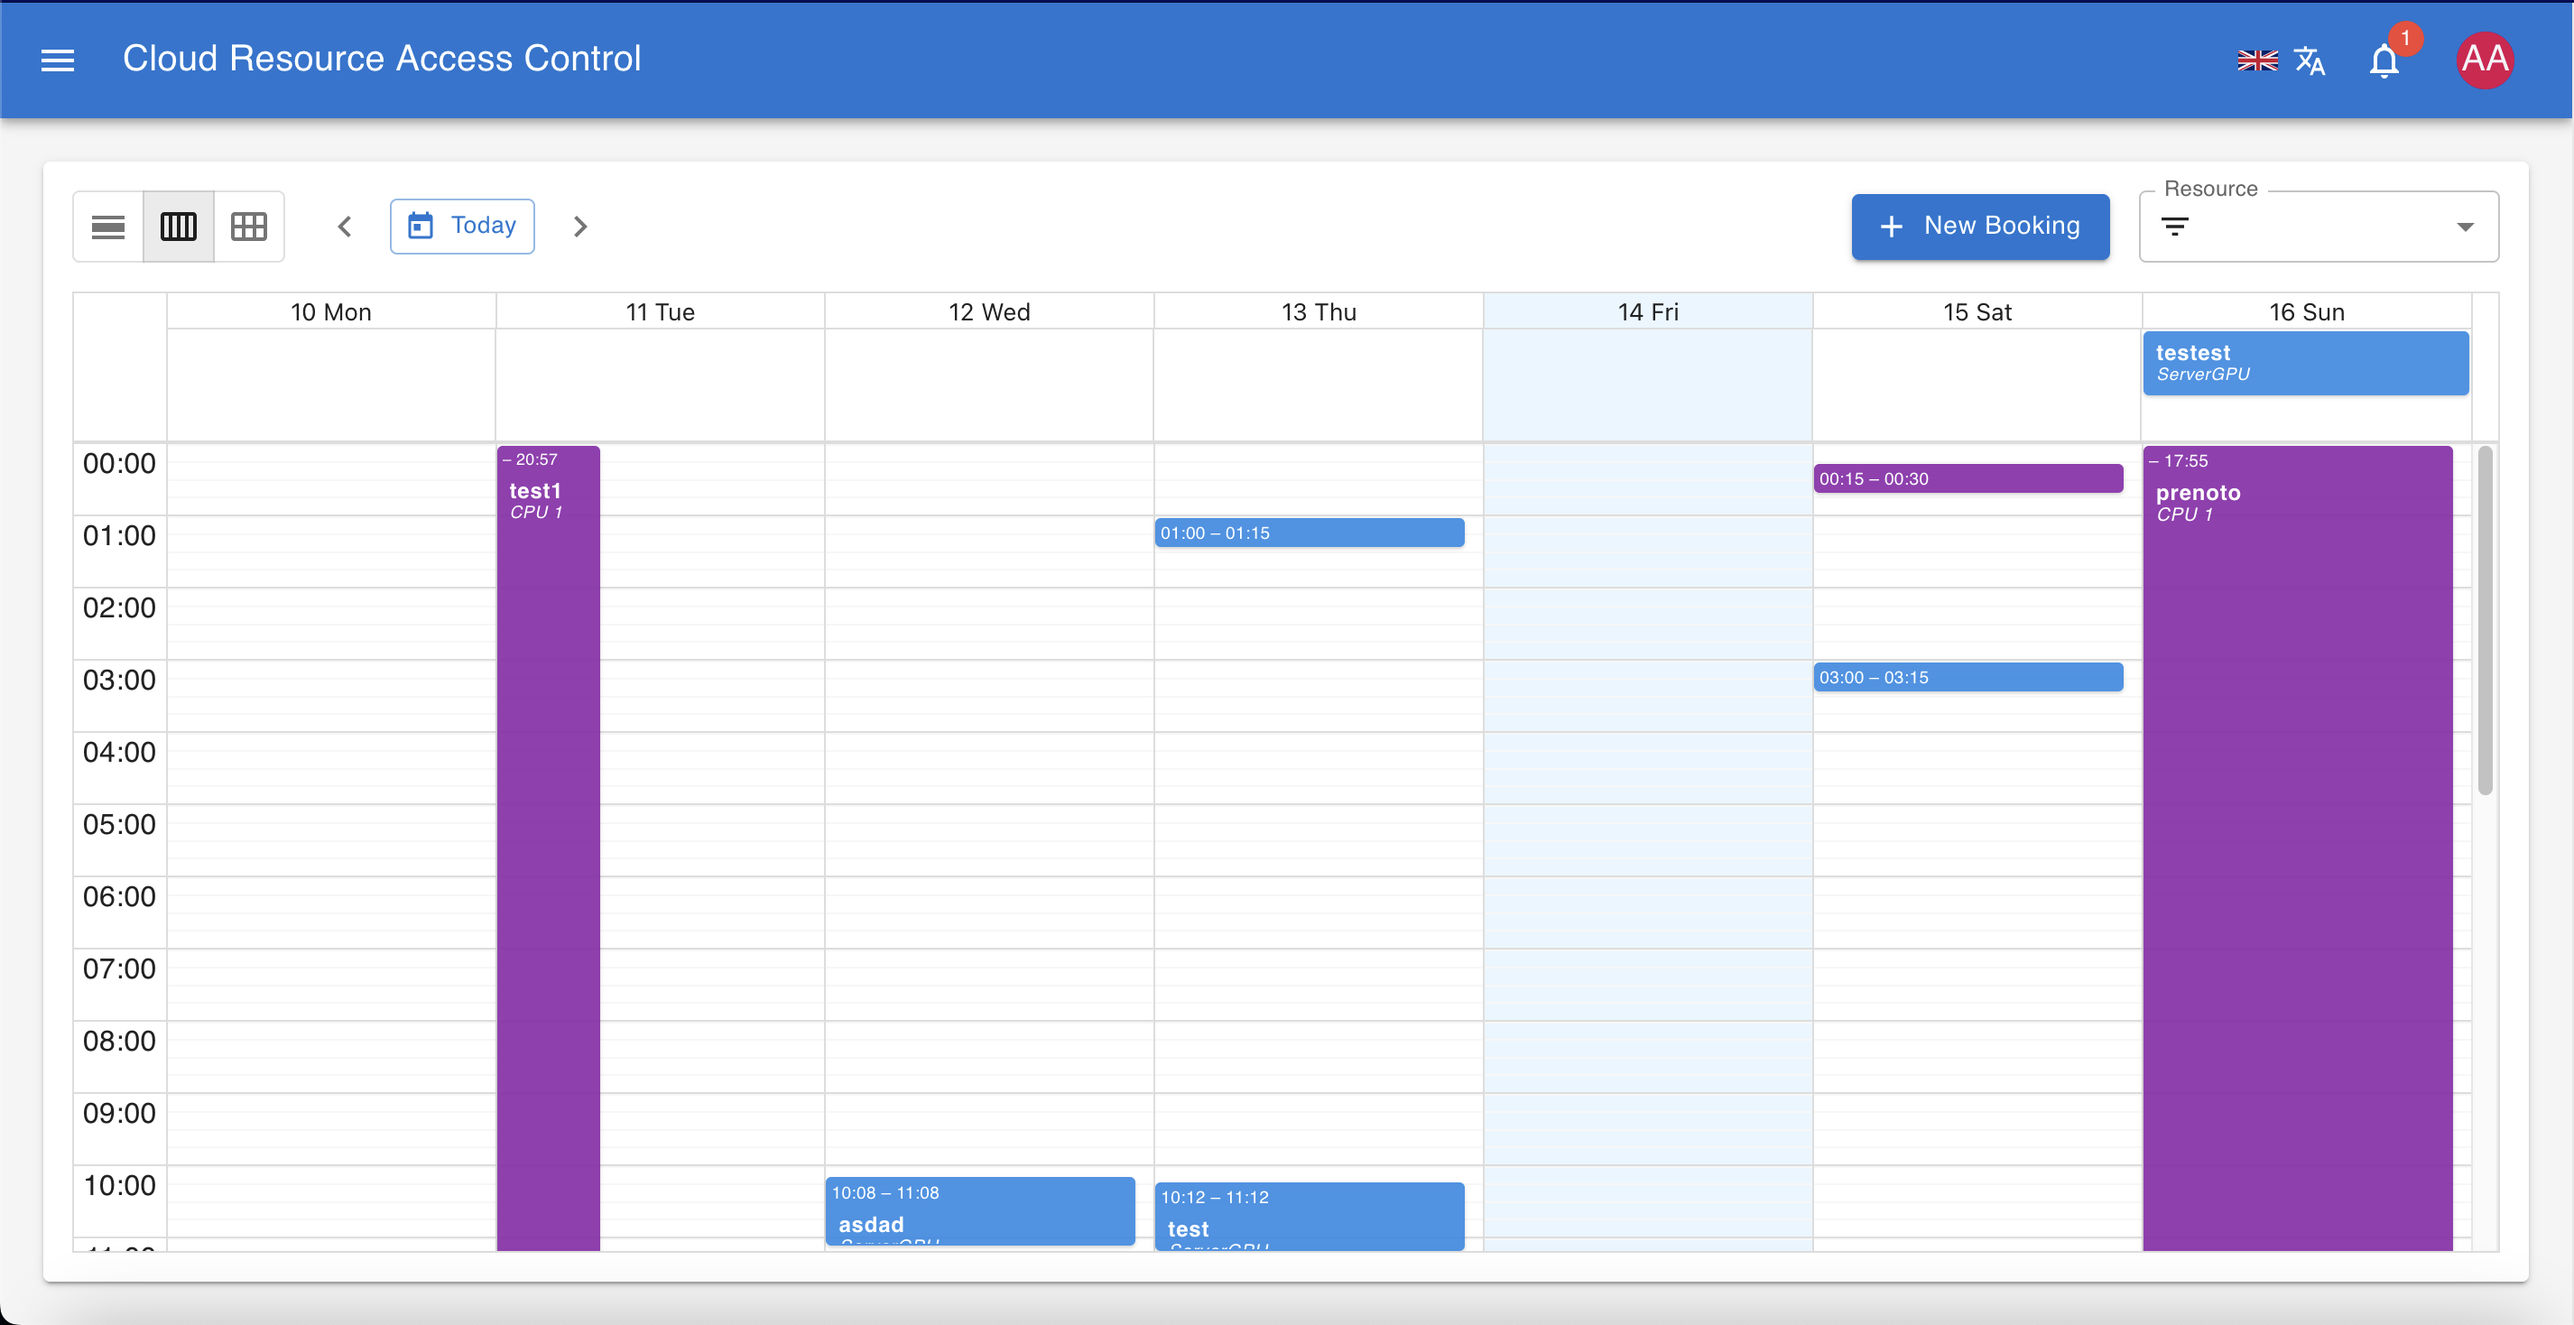
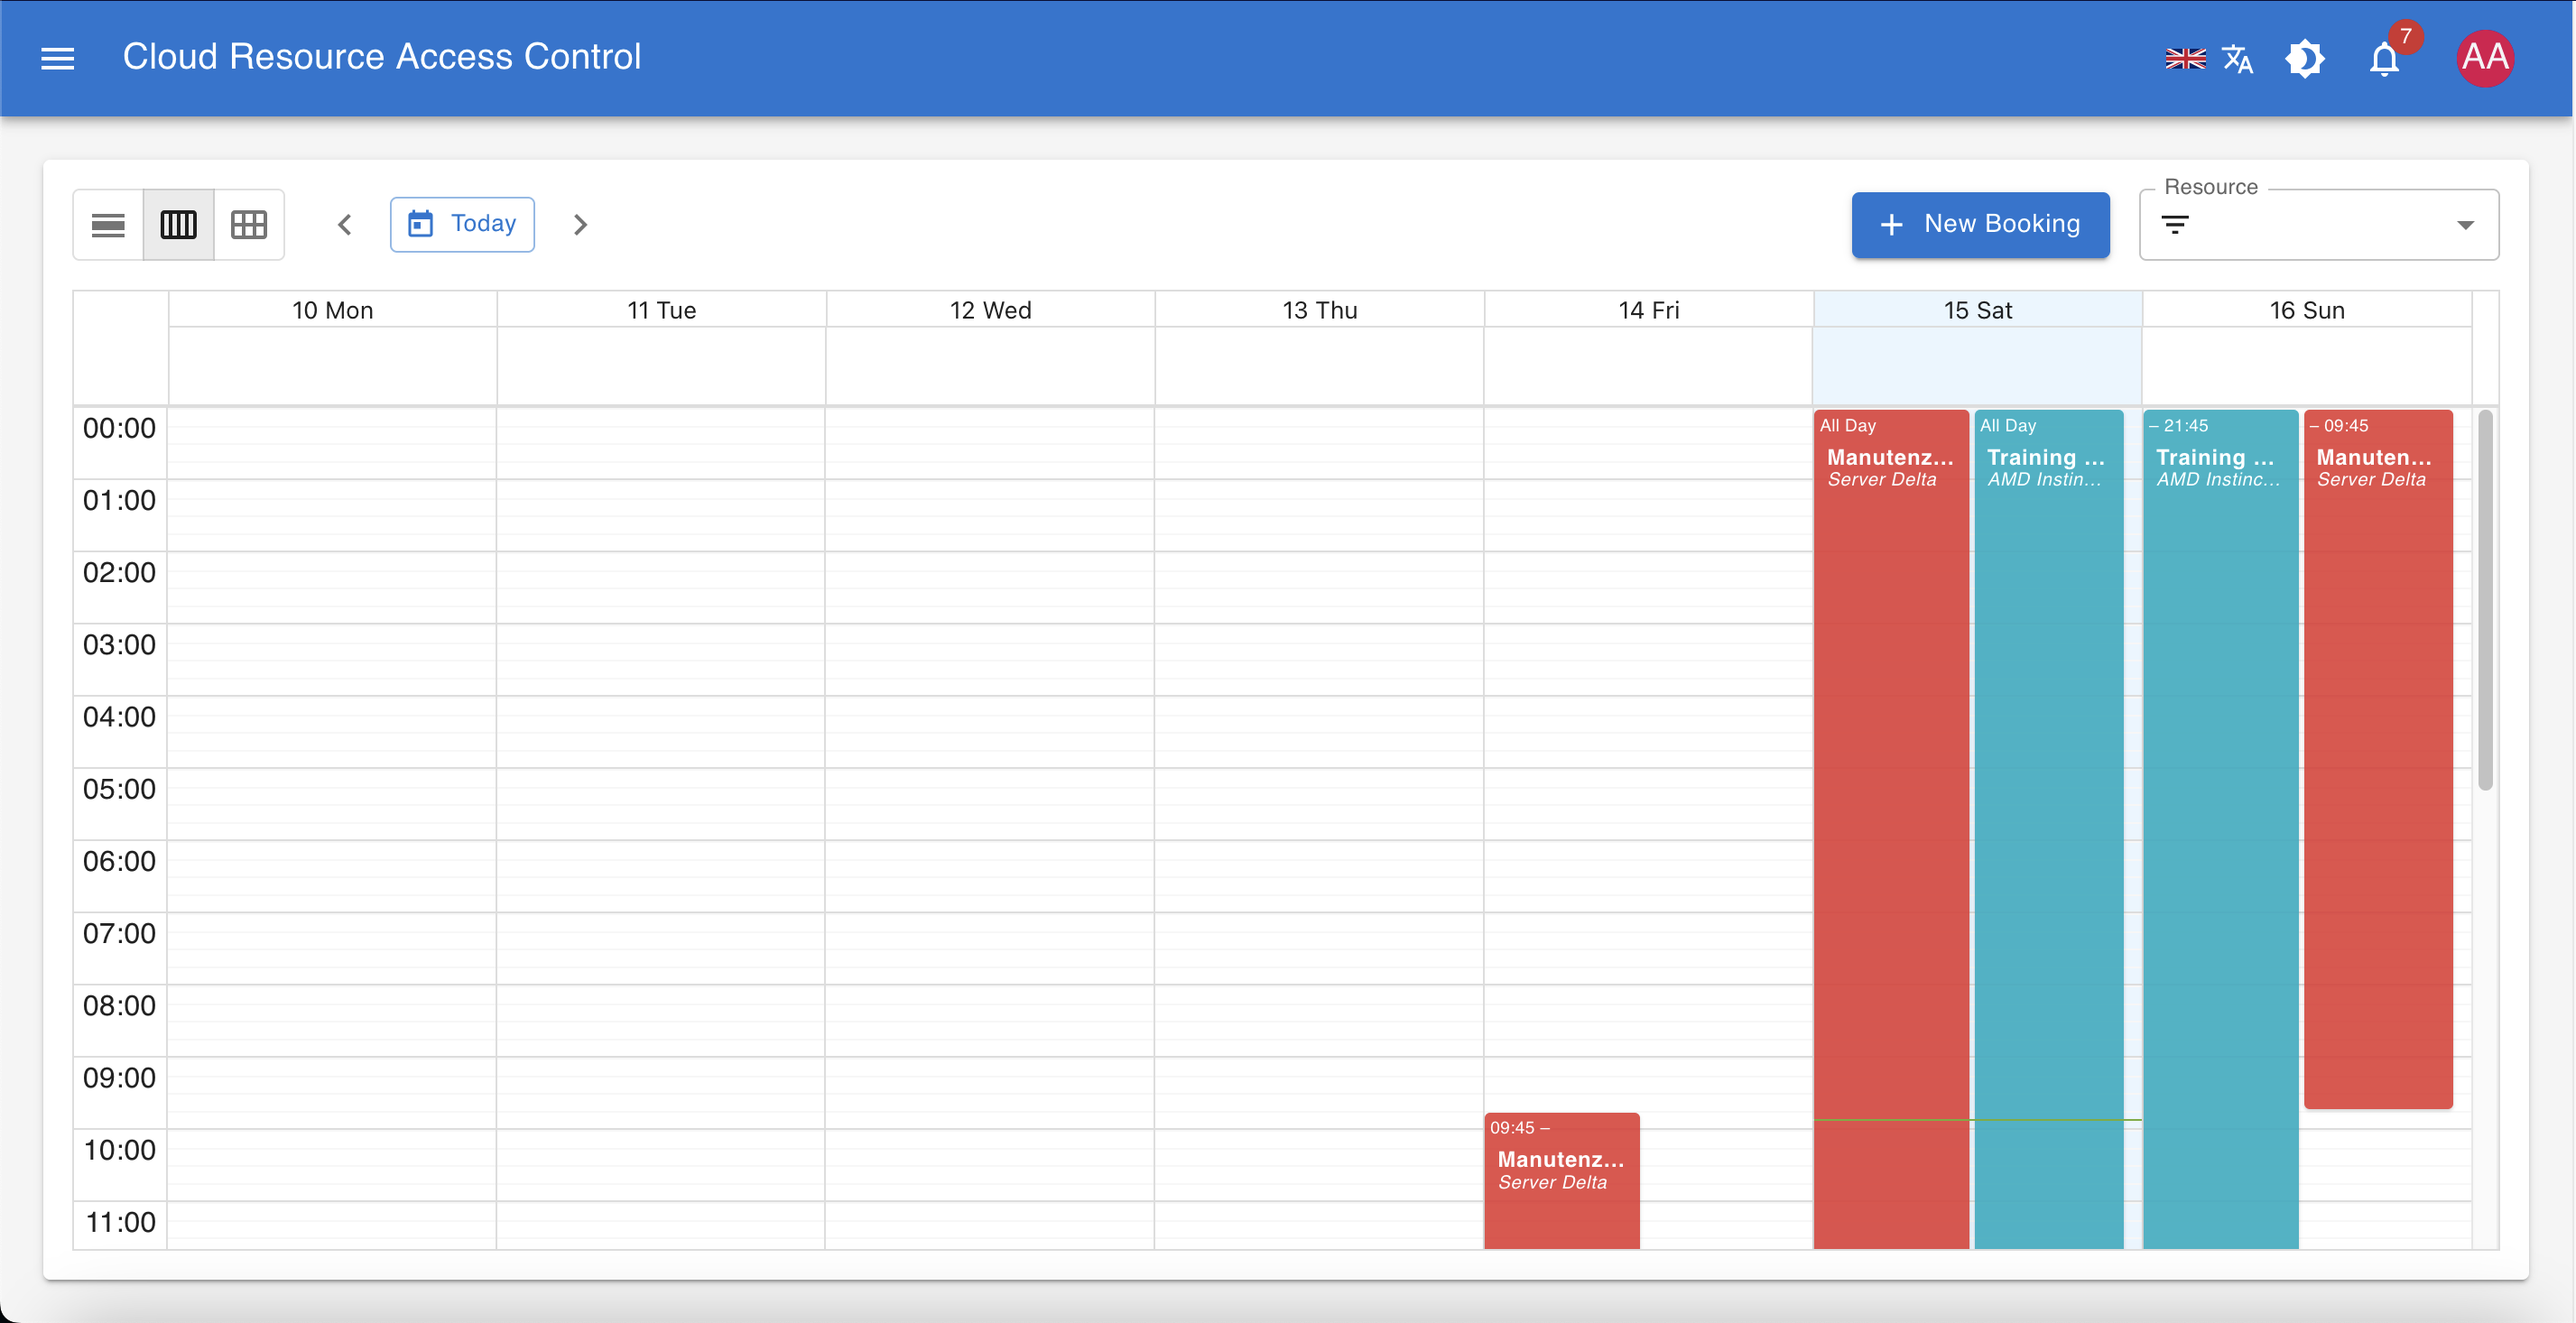
refact/fix: fix theme problems, update images and readme

diff --git a/src/styles/calendarDarkStyles.css b/src/styles/calendarDarkStyles.css
@@ -1,12 +1,12 @@
-/* Stili specifici per il tema scuro del calendario */
+/* Specific styles for calendar dark theme */
 
-/* Stile di base per il calendario in tema scuro */
+/* Base style for calendar in dark theme */
 .dark-theme .rbc-calendar {
   background-color: #1e1e1e;
   color: #f0f0f0;
 }
 
-/* Header del mese e intestazioni giorni della settimana */
+/* Month header and week day headers */
 .dark-theme .rbc-month-header,
 .dark-theme .rbc-time-header-content {
   background-color: #2c2c2c;
@@ -18,7 +18,7 @@
   border-bottom: 1px solid #444;
 }
 
-/* Celle dei giorni */
+/* Day cells */
 .dark-theme .rbc-month-view,
 .dark-theme .rbc-time-view {
   border: 1px solid #444;
@@ -55,12 +55,12 @@
   color: #90caf9;
 }
 
-/* Celle di oggi */
+/* Today's cells */
 .dark-theme .rbc-day-bg.rbc-today {
   background-color: rgba(30, 60, 90, 0.5);
 }
 
-/* Vista oraria */
+/* Time view */
 .dark-theme .rbc-time-content {
   border-top: 1px solid #444;
 }
@@ -88,11 +88,12 @@
   border-right: 1px solid #444;
 }
 
-/* Eventi */
+/* Events - removing background color override to allow color variety */
 .dark-theme .rbc-event {
-  background-color: #1976d2;
   border: none;
   box-shadow: 0 1px 5px rgba(0, 0, 0, 0.5);
+  /* Increase brightness/opacity to make colors more visible */
+  filter: brightness(1.2);
 }
 
 .dark-theme .rbc-event-content {
@@ -100,11 +101,12 @@
 }
 
 .dark-theme .rbc-event.rbc-selected {
-  background-color: #3f51b5;
+  /* Only modify shadow and selection effect, not the color */
   box-shadow: 0 0 6px #000;
+  filter: brightness(1.4);
 }
 
-/* Visibilità delle linee di sfondo nella vista temporale */
+/* Background line visibility in time view */
 .dark-theme .rbc-time-content .rbc-time-column {
   background-color: #1e1e1e;
 }
@@ -114,7 +116,7 @@
   height: 2px;
 }
 
-/* Popup "Show more" */
+/* "Show more" popup */
 .dark-theme .rbc-overlay {
   background-color: #2c2c2c;
   border: 1px solid #444;
@@ -125,6 +127,23 @@
 .dark-theme .rbc-overlay-header {
   border-bottom: 1px solid #444;
   color: #f0f0f0;
+  background-color: #333;
+  padding: 8px;
+}
+
+/* Fix for the event items in the overlay popup - preserving original colors */
+.dark-theme .rbc-overlay .rbc-event {
+  border: none;
+  margin-bottom: 5px;
+  padding: 5px;
+  /* Increase brightness to make colors more visible in dark mode */
+  filter: brightness(1.2);
+}
+
+/* Target only the text in the overlay to ensure readability */
+.dark-theme .rbc-overlay .rbc-event * {
+  color: white;
+  text-shadow: 0 1px 2px rgba(0, 0, 0, 0.7);
 }
 
 /* Toolbar */
@@ -143,13 +162,13 @@
   border-color: #3f51b5;
 }
 
-/* Migliorare il contrasto per gli eventi colorgati scuri */
+/* Improve contrast for dark-colored events */
 .dark-theme .rbc-event {
   color: white;
   text-shadow: 0 0 1px rgba(0, 0, 0, 0.7);
 }
 
-/* Stile per gli eventi sovrapposti in tema scuro */
+/* Style for overlapping events in dark theme */
 .dark-theme .rbc-event.compact-mode {
   opacity: 0.9;
 }
@@ -158,17 +177,17 @@
   opacity: 0.85;
 }
 
-/* Aggiunta di una linea separatore più evidente tra le ore */
+/* Adding a more visible separator line between hours */
 .dark-theme .rbc-time-content > .rbc-time-gutter {
   border-right: 1px solid #444;
 }
 
-/* Miglioramento dell'aspetto dei label del tempo nella vista oraria */
+/* Improve appearance of time labels in hourly view */
 .dark-theme .rbc-label {
   padding: 5px;
 }
 
-/* Hover sulle celle dei giorni */
+/* Hover on day cells */
 .dark-theme .rbc-day-bg:hover {
   background-color: rgba(255, 255, 255, 0.05);
 }

diff --git a/src/components/Profile/ProfileManagement.jsx b/src/components/Profile/ProfileManagement.jsx
@@ -104,8 +104,7 @@ const ProfileManagement = () => {
       const updatedData = {
         firstName: profileData.firstName,
         lastName: profileData.lastName,
-        email: profileData.email,
-        username: profileData.username
+        email: profileData.email
       };
 
       if (profileData.password) {
@@ -120,14 +119,12 @@ const ProfileManagement = () => {
       });
       
       if(user && user.id) {
-        // Aggiorna solo l'utente corrente con i nuovi dati mantenendo gli altri campi
+        // Update current user with new data while keeping other fields
         const updatedUser = {
           ...currentUser,
           firstName: profileData.firstName,
           lastName: profileData.lastName,
           email: profileData.email,
-          username: profileData.username,
-          // Altri campi che potrebbero essere stati aggiornati dal backend
           ...user
         };
         
@@ -135,10 +132,10 @@ const ProfileManagement = () => {
         setIsEditing(false);
         setCurrentUser(updatedUser);
         
-        // Aggiorna anche i dati del form con i valori aggiornati
+        // Update form data with updated values
         setProfileData({
           ...profileData,
-          password: '' // Resetta la password nel form
+          password: '' // Reset password in form
         });
       }
     } finally {
@@ -262,6 +259,14 @@ const ProfileManagement = () => {
                         <ContentCopyIcon fontSize="small" />
                       </IconButton>
                     </Box>
+                    <Box>
+                      <Typography variant="subtitle2" color="text.secondary">
+                        {t('profile.username')}
+                      </Typography>
+                      <Typography variant="body1">
+                        {currentUser.username || currentUser.name || ''}
+                      </Typography>
+                    </Box>
                   </Stack>
                 </CardContent>
               </Card>
@@ -311,17 +316,6 @@ const ProfileManagement = () => {
                   margin="normal"
                 />
                 
-                <TextField
-                  label={t('profile.username')}
-                  name="username"
-                  value={profileData.username}
-                  onChange={handleChange}
-                  fullWidth
-                  disabled={!isEditing}
-                  required={isEditing}
-                  margin="normal"
-                />
-
                 {isEditing && (
                   <TextField
                     label={t('profile.newPassword')}

diff --git a/src/components/Dashboard/ResourceUtilizationTable.jsx b/src/components/Dashboard/ResourceUtilizationTable.jsx
@@ -90,7 +90,7 @@ const ResourceUtilizationTable = ({ resources, events, resourceTypes }) => {
   return (
     <TableContainer component={Paper} variant="outlined">
       <Table sx={{ minWidth: 650 }} size="small">
-        <TableHead sx={{ bgcolor: 'grey.100' }}>
+        <TableHead sx={{ bgcolor: 'black.100' }}>
           <TableRow>
             <TableCell>{t('utilization.resourceName')}</TableCell>
             <TableCell>{t('utilization.type')}</TableCell>

diff --git a/README.md b/README.md
@@ -16,6 +16,7 @@ A comprehensive cloud resource management application built with React and Mater
 - **Notification System**: Real-time notification center to alert users about booking changes and system events
 - **Multi-language Support**: Full internationalization support for English and Italian
 - **Responsive Design**: Works seamlessly on desktop and mobile devices
+- **Dark Mode**: Light or Dark Mode available.
 
 ## Technology Stack
 
